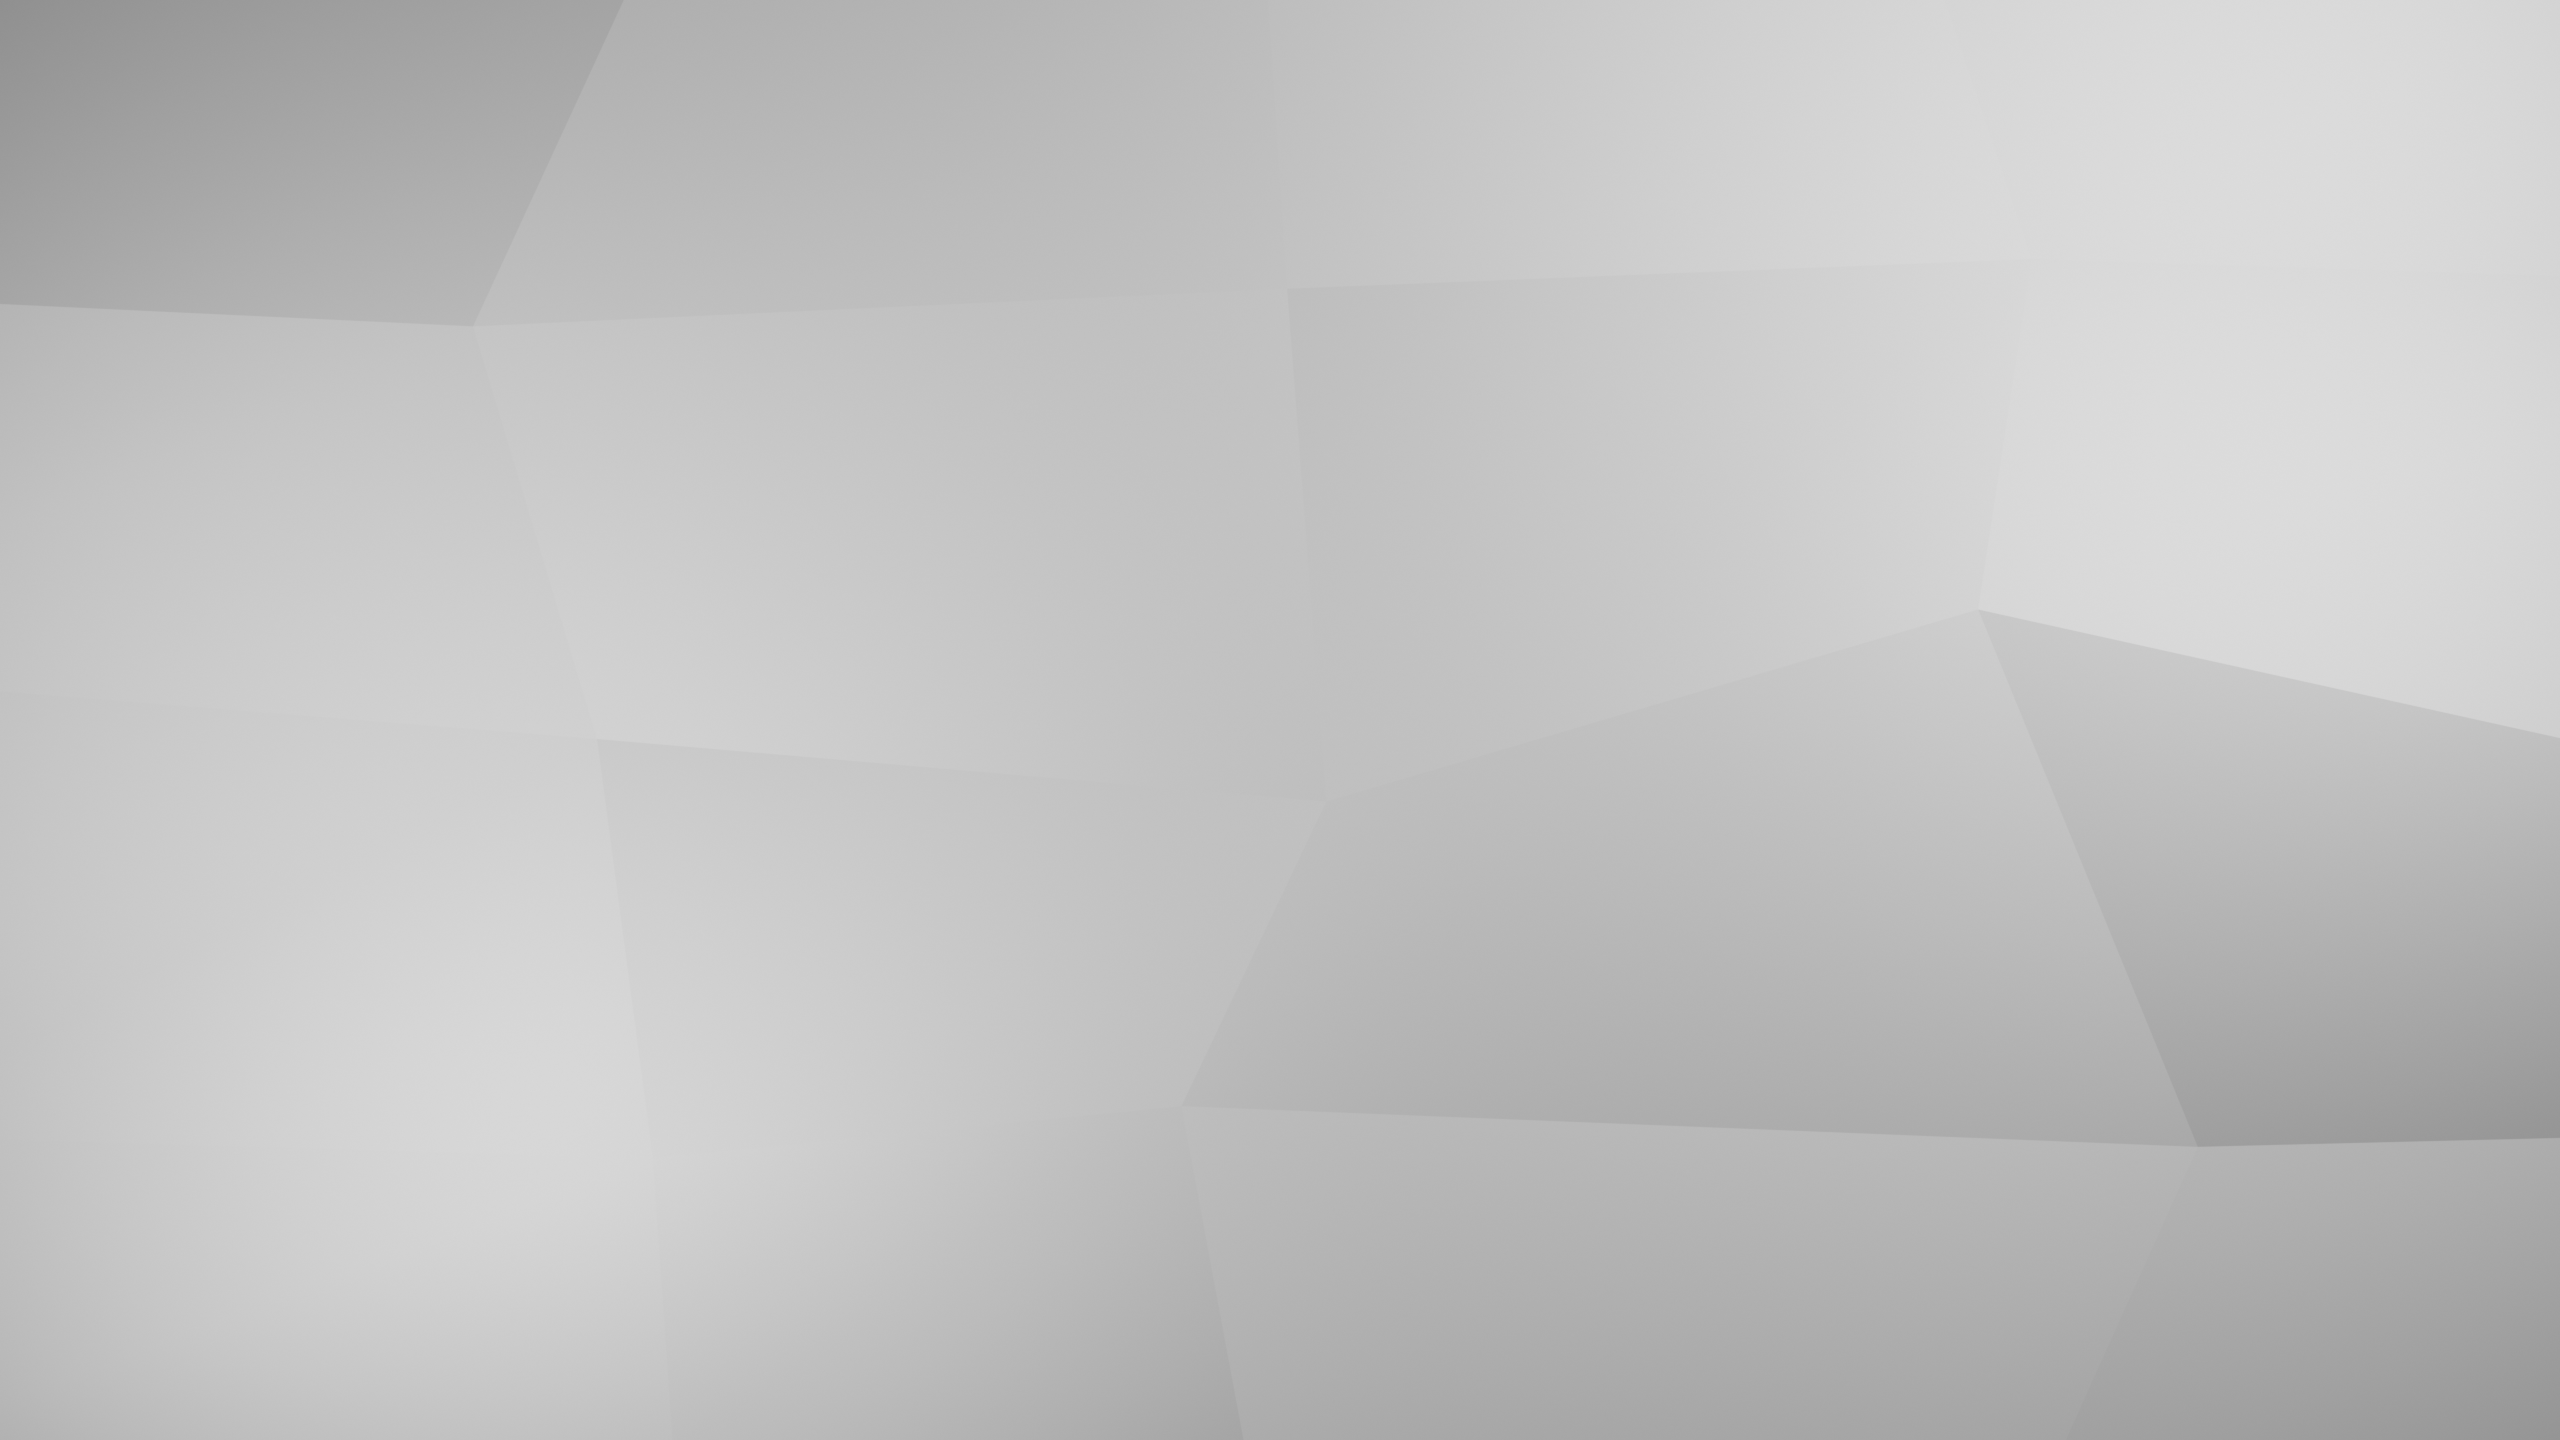
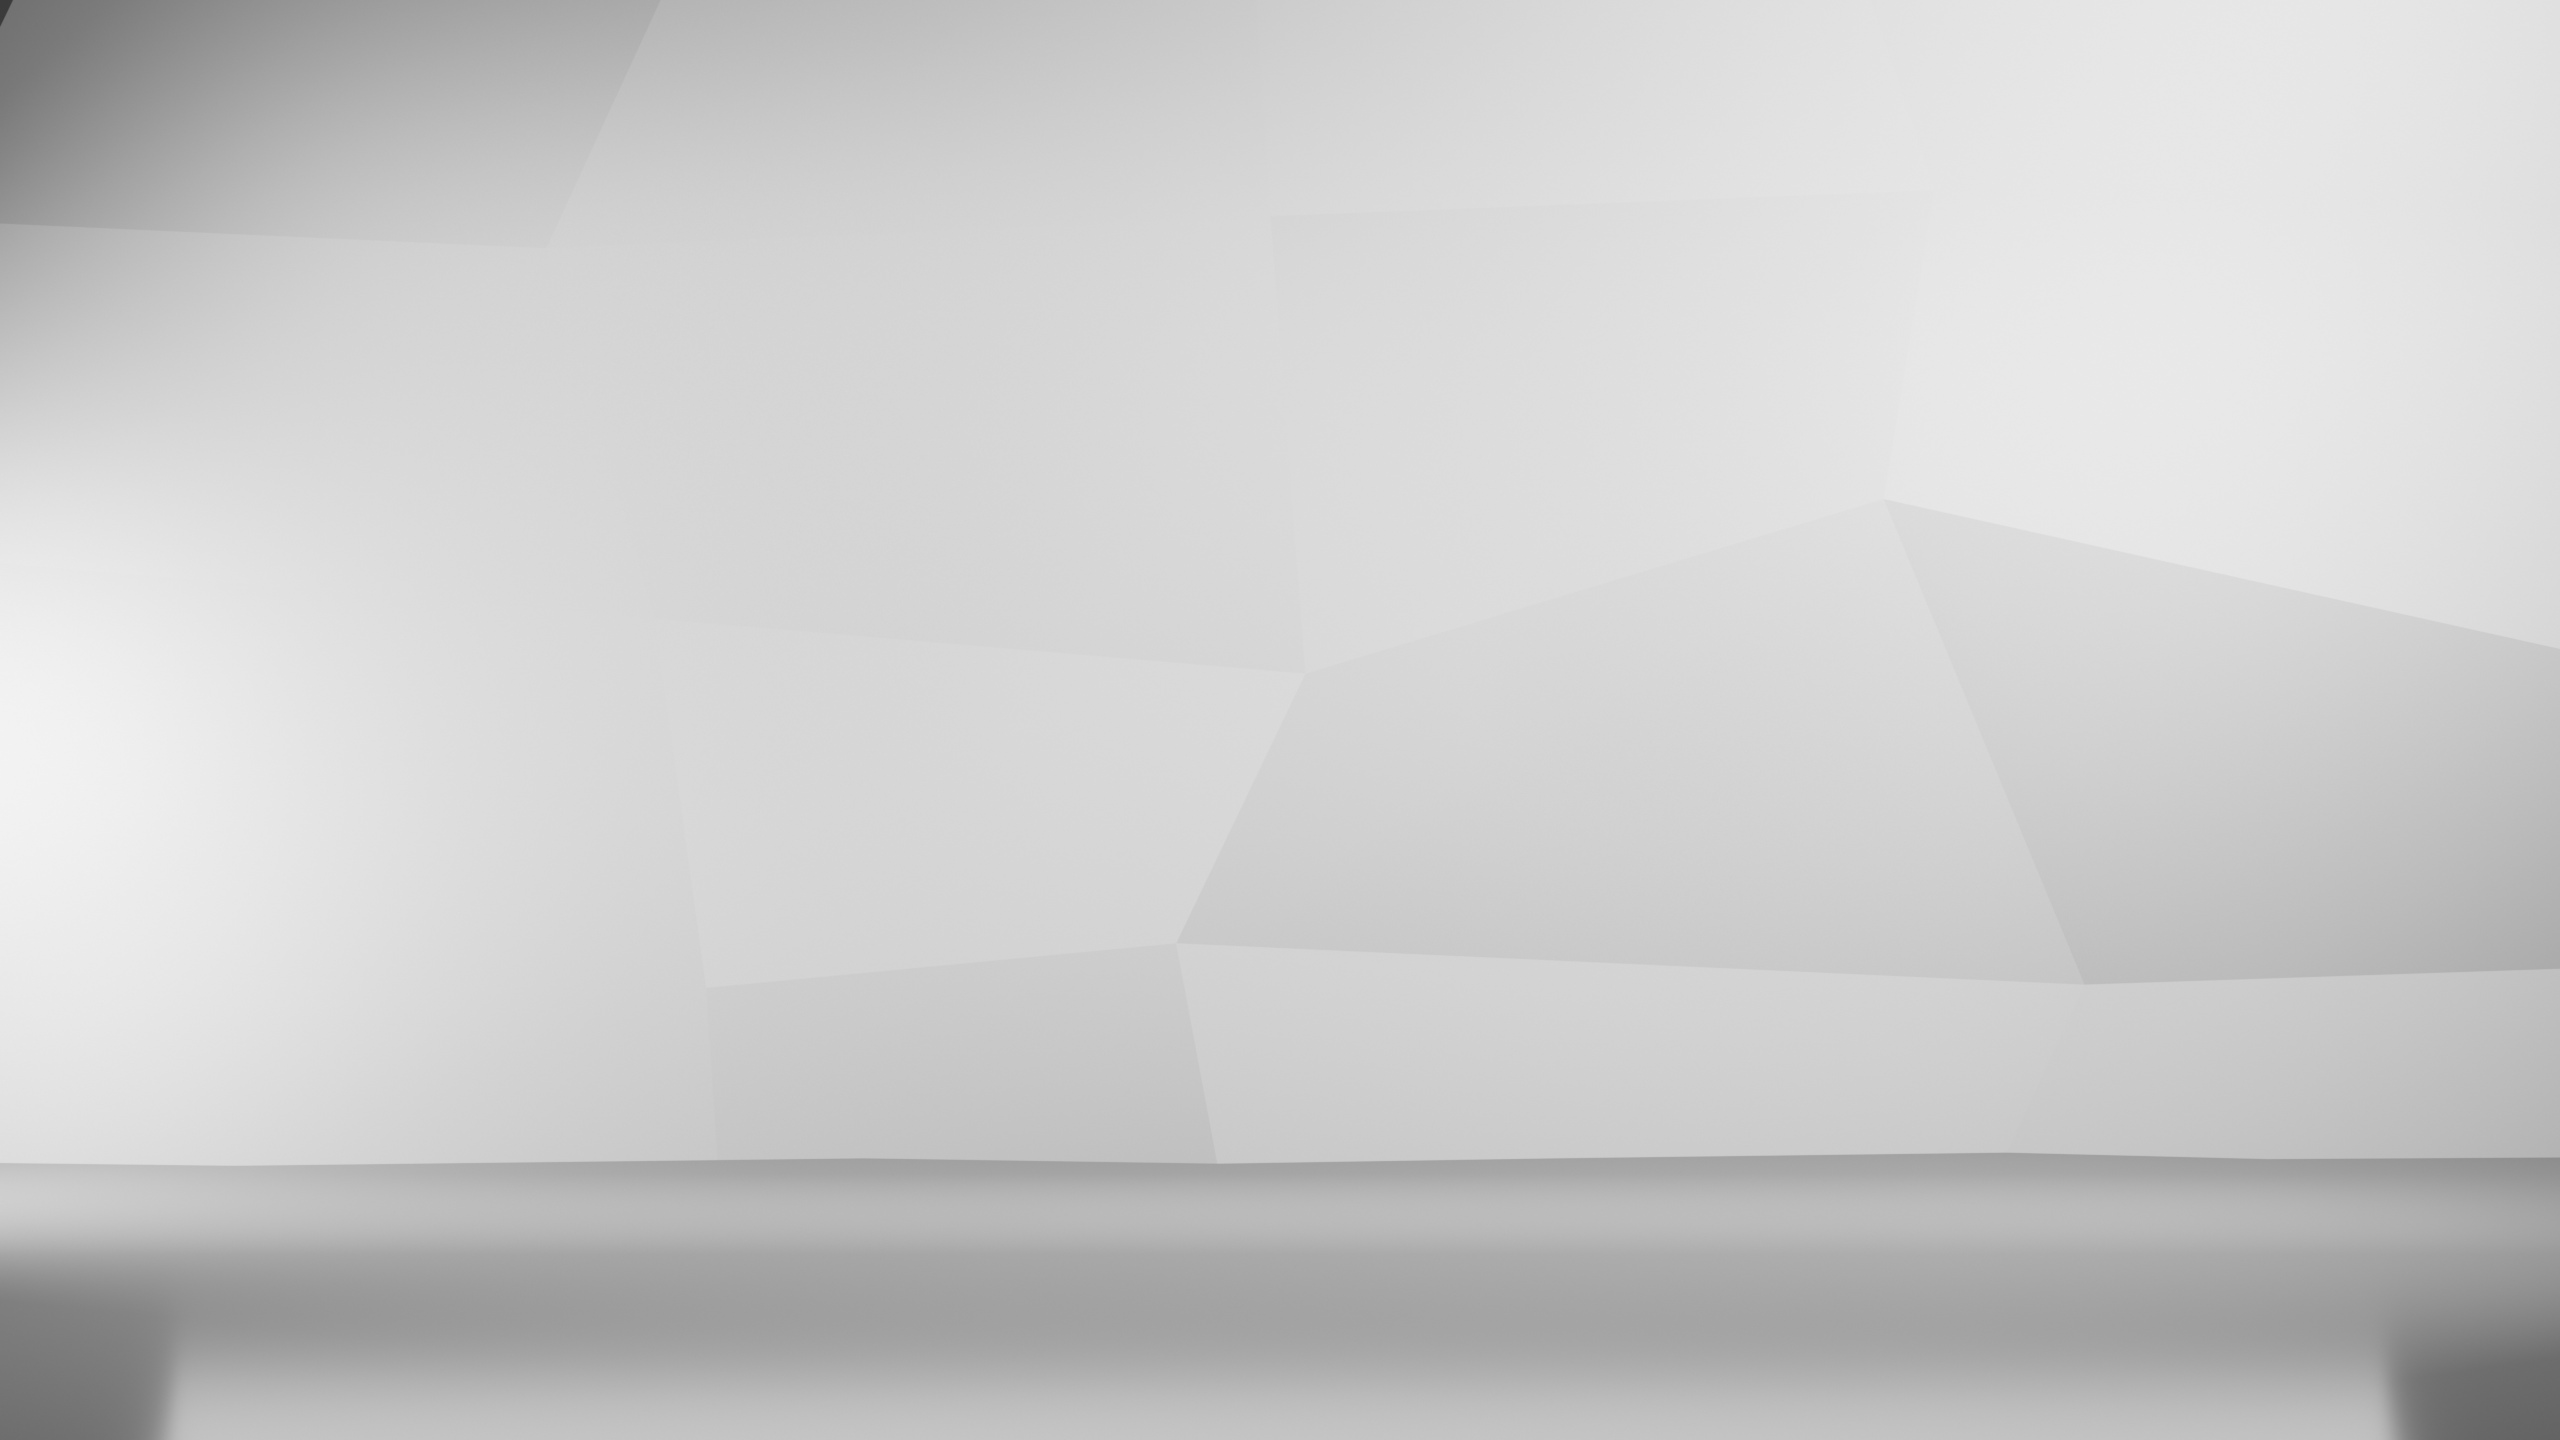
fix/ui-settings

diff --git a/src/components/ui/Layout.jsx b/src/components/ui/Layout.jsx
@@ -1,23 +1,23 @@
-import React, { useContext } from 'react';
+import React from 'react';
 import './Layout.css';
 import BackgroundParallax from '@/components/ui/backgroundParallax';
 import { Header } from '@/components/ui/Header';
 import { ContactForm } from '@components/ContactForm';
-import { CookieConsentContext } from '@/App';
 // import video from '@assets/earth.mp4';
 import onePlan from '@assets/images/one-plan-color.png';
 import twoPlan from '@assets/images/two-plan-color.png';
 import threePlan from '@assets/images/three-plan-dark.png';
 // import fourPlan from '@assets/images/four-plan-dark.png';
+// import logoPlan1 from '@assets/images/logo-plan-1.png';
+// import logoPlan2 from '@assets/images/logo-plan-2.png';
 
 const Layout = ({ children, onFilterChange, activeComponent }) => {
-  // Utiliser le contexte pour accéder au statut du consentement
-  const { cookieConsent } = useContext(CookieConsentContext);
-  
   const medias = [
-    { media: onePlan, intensity: 100, blur: 1, opacity: 0.07, zIndex: -1 },
-    { media: twoPlan, intensity: 50, blur: 0, opacity: 0.3, zIndex: -2 },
-    { media: threePlan, intensity: 20, blur: 2, opacity: 0.3, zIndex: -3 },
+    // { media: logoPlan1, intensity: 0, blur: 0, opacity: .1, zIndex: -1 },
+    // { media: logoPlan2, intensity: 0, blur: 0, opacity: .1, zIndex: -2 },
+    { media: onePlan, intensity: 100, blur: 1, opacity: .1, zIndex: -2 },
+    { media: twoPlan, intensity: 50, blur: 0, opacity: 0.3, zIndex: -4 },
+    { media: threePlan, intensity: 20, blur: 2, opacity: 0.3, zIndex: -5 },
     // { media: fourPlan, intensity: 10, blur: 2, opacity: 0.3, zIndex: -4 },
   ];
   
@@ -33,18 +33,11 @@ const Layout = ({ children, onFilterChange, activeComponent }) => {
       <BackgroundParallax medias={medias} forceTranslate={50} />
 
       <div className="layout-container">
-        {/* Vous pouvez utiliser clientConsent pour conditionner l'affichage de certains éléments */}
         {children}
       </div>
 
       <ContactForm />
       
-      {/* Services conditionnels basés sur le consentement */}
-      {cookieConsent && (
-        <div className="consent-required-features" style={{ display: 'none' }}>
-          {/* Services d'analyse, publicités, etc. */}
-        </div>
-      )}
     </div>
   );
 };

diff --git a/src/App.jsx b/src/App.jsx
@@ -14,6 +14,7 @@ export const CookieConsentContext = createContext(null);
 function App() {
   const [activeView, setActiveView] = useState(localStorage.getItem('activeIcon') || '');
   const [cookieConsent, setCookieConsent] = useState(false);
+  const [isLoading, setIsLoading] = useState(true);
 
   // Default options for scroll observation
   const defaultInViewOptions = {
@@ -29,6 +30,16 @@ function App() {
     if (savedConsent === 'accepted') {
       setCookieConsent(true);
     }
+  }, []);
+
+  // Effect to simulate loading time
+  useEffect(() => {
+    // Simuler un temps de chargement pour le loader
+    const timer = setTimeout(() => {
+      setIsLoading(false);
+    }, 2000);
+    
+    return () => clearTimeout(timer);
   }, []);
 
   // Function to handle the consent change
@@ -84,13 +95,21 @@ function App() {
   return (
     <CookieConsentContext.Provider value={{ cookieConsent, setConsent: handleConsentChange }}>
       <ScrollObserverContext.Provider value={{ defaultInViewOptions }}>
-        <div className="app">
-          <Layout onFilterChange={handleFilterChange} activeComponent={renderActiveComponent().type}>
-            <main className="main-content">{renderActiveComponent().component}</main>
-          </Layout>
+        <div className={`app ${isLoading ? 'loading' : 'loaded'}`}>
+          {isLoading ? (
+            <div className="loader">
+              <div className="loader-spinner"></div>
+            </div>
+          ) : (
+            <>
+              <Layout onFilterChange={handleFilterChange} activeComponent={renderActiveComponent().type}>
+                <main className="main-content">{renderActiveComponent().component}</main>
+              </Layout>
 
-          {/* Bannière de consentement des cookies au niveau de l'application */}
-          <CookieConsent onConsentChange={handleConsentChange} />
+              {/* Bannière de consentement des cookies au niveau de l'application */}
+              <CookieConsent onConsentChange={handleConsentChange} />
+            </>
+          )}
         </div>
       </ScrollObserverContext.Provider>
     </CookieConsentContext.Provider>

diff --git a/src/components/ui/BackgroundParallax.css b/src/components/ui/BackgroundParallax.css
@@ -8,7 +8,19 @@
   overflow: hidden;
   pointer-events: none;
 }
-
+.background-scene {
+  position: fixed;
+  top: 0;
+  left: 0;
+  width: 100%;
+  height: 100%;
+  z-index: -8;
+  background-image: url('@/assets/images/portfolio-bg-scene2.png');
+  background-size: cover;
+  background-position: center;
+  background-repeat: no-repeat;
+  background-attachment: fixed;
+}
 .background-aura {
   position: fixed;
   top: 0;
@@ -16,16 +28,11 @@
   width: 100%;
   height: 100%;
   z-index: -8;
-  background-image: url('@/assets/images/portfolio-bg-scene.png');
-  background-size: cover;
-  background-position: center;
-  background-repeat: no-repeat;
-  background-attachment: fixed;
 
-  /* background: radial-gradient(circle at center, var(--primary-color) 0%, rgba(0, 0, 0, 0) 70%),
-    radial-gradient(circle at top, var(--secondary-color) 0%, rgba(0, 0, 0, 0) 70%),
-    radial-gradient(circle at center, var(--accent-color) 0%, rgba(0, 0, 0, 0) 70%); */
-  /* mix-blend-mode: overlay; */
+  background: radial-gradient(circle at left, var(--primary-color) 0%, rgba(0, 0, 0, 0) 70%),
+    radial-gradient(circle at center, var(--secondary-color) 0%, rgba(0, 0, 0, 0) 70%),
+    radial-gradient(circle at right, var(--accent-color) 0%, rgba(0, 0, 0, 0) 70%);
+  mix-blend-mode: overlay;
   /* pointer-events: none; */
 }
 

diff --git a/src/components/ui/backgroundParallax.jsx b/src/components/ui/backgroundParallax.jsx
@@ -43,7 +43,7 @@ const BackgroundParallax = ({ medias, forceTranslate }) => {
       
       // Define the intensity of the movement
       // If forceTranslate is 0, use the default value (-20)
-      const intensity = forceTranslate || -20;
+      const intensity = forceTranslate;
       
       // Convert the position to a percentage and apply the intensity
       const moveX = ((mouseX - centerX) / centerX) * intensity;
@@ -77,6 +77,11 @@ const BackgroundParallax = ({ medias, forceTranslate }) => {
       return baseStyle;
     }
 
+    // Si l'intensité est 0, ne pas appliquer de transformation
+    if (intensity === 0) {
+      return baseStyle;
+    }
+
     // If desktop, add parallax transformation
     const intensityFactor = intensity ? intensity / 100 : 1;
     return {
@@ -91,7 +96,8 @@ const BackgroundParallax = ({ medias, forceTranslate }) => {
 
   return (
     <>
-      <div className={`background-aura ${isMobile ? 'mobile' : ''}`} />
+      <div className={`background-scene`} />
+      {/* <div className={`background-aura`} /> */}
       <div className={`background-parallax ${isMobile ? 'mobile' : ''}`} ref={parallaxRef}>
         {medias.map(({ media, intensity, blur, opacity, zIndex }, index) => (
           <div

diff --git a/src/index.css b/src/index.css
@@ -106,6 +106,8 @@ section {
   padding: 6rem 4rem;
   /* width: 100%; */
   letter-spacing: 0.5px;
+  /* background-color: rgba(200, 200, 200, 0.8);
+  backdrop-filter: blur(10px); */
 }
 h2 {
   font-size: 2.5rem;

diff --git a/src/styles/Hero.css b/src/styles/Hero.css
@@ -63,7 +63,7 @@
   justify-content: center; */
   padding: 0 15px;
   opacity: 0.8;
-  filter: grayscale(100%);
+  filter: grayscale(70%);
   transition: all 0.3s ease;
 }
 
